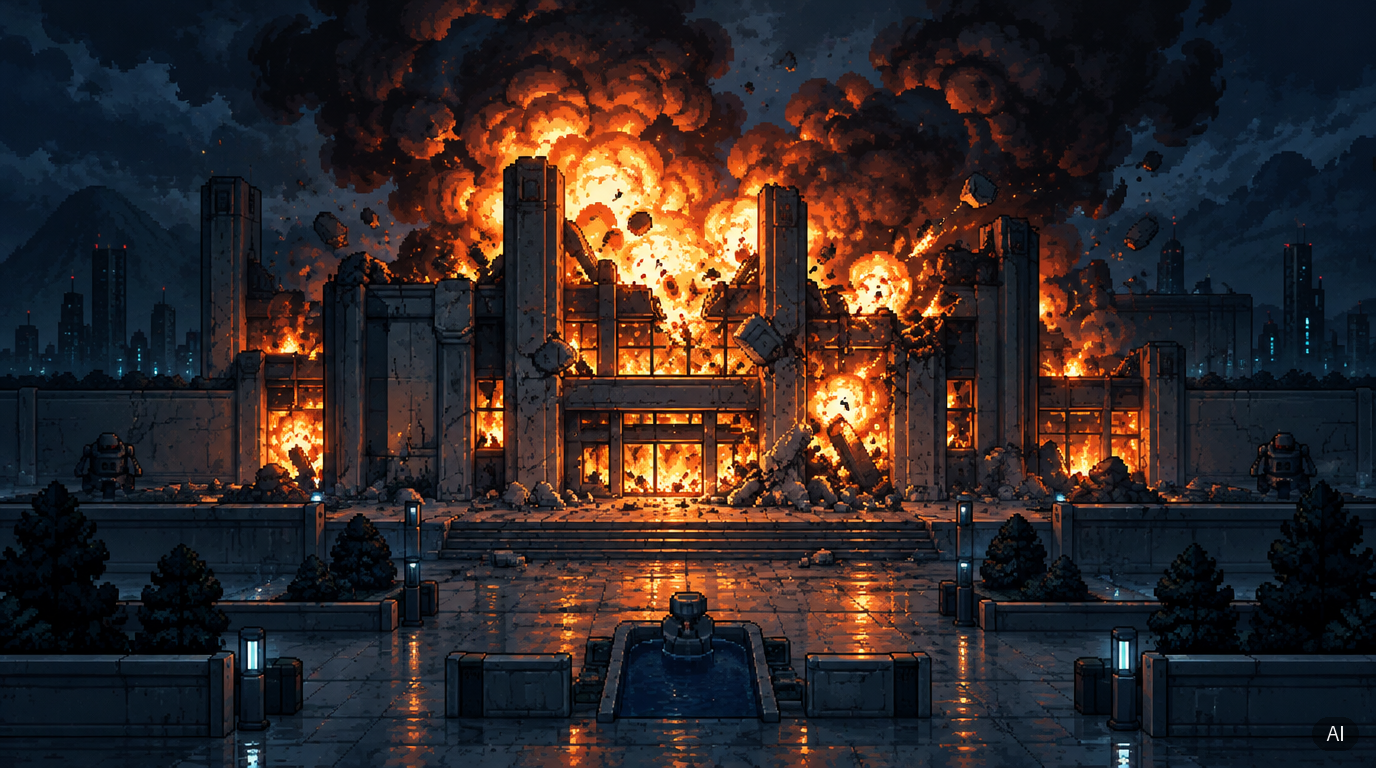
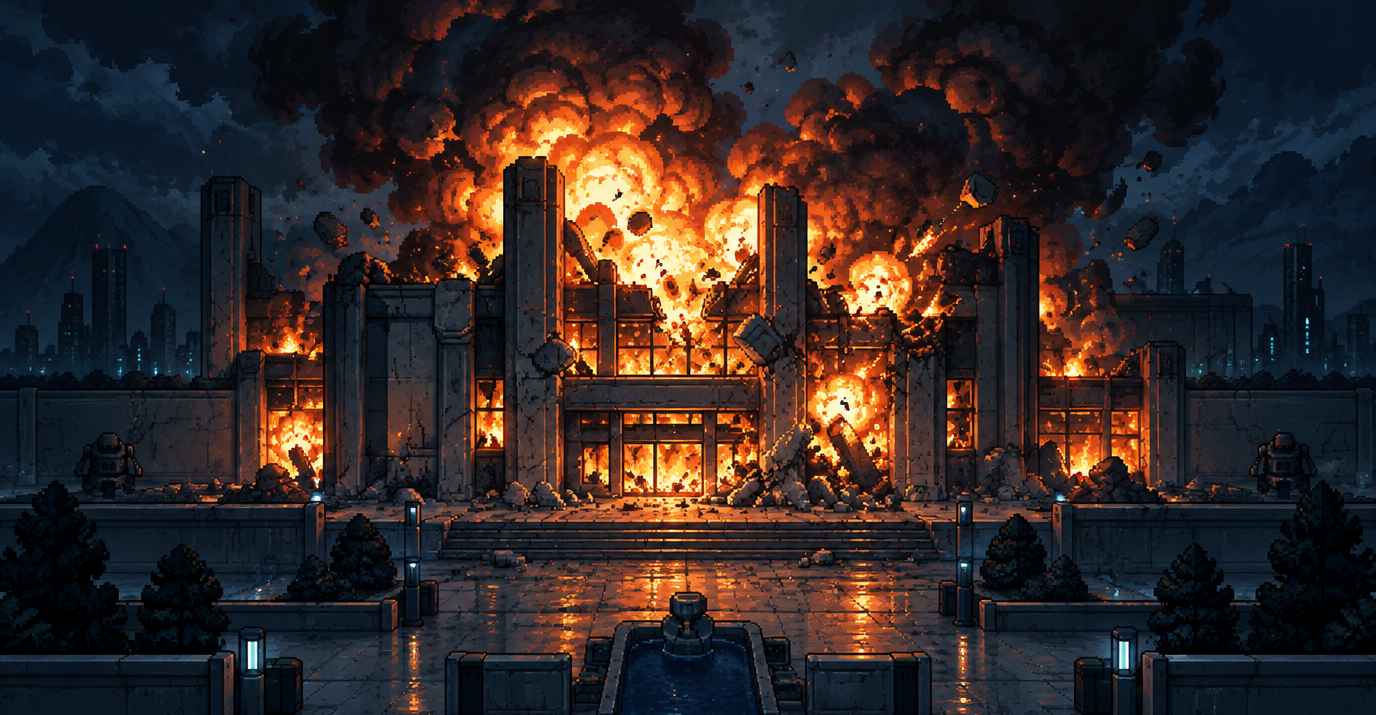
오프닝&엔딩 스킵버튼 수정

diff --git a/Assets/GameStart_all/OpeningManager.cs b/Assets/GameStart_all/OpeningManager.cs
@@ -128,9 +128,9 @@ public class OpeningManager : MonoBehaviour
 
             if (c > 0) yield return Fade(0f, 1f);
             dialoguePanel.SetActive(false);
+            if (skipButtonObj != null) skipButtonObj.SetActive(false);   // ← 추가
             if (cutImage != null) cutImage.sprite = cut.image;
             yield return Fade(1f, 0f);
-            if (skipButtonObj != null) skipButtonObj.SetActive(true);   // ← 추가
 
             if (cut.lines == null || cut.lines.Length == 0)
             {
@@ -145,6 +145,7 @@ public class OpeningManager : MonoBehaviour
             }
 
             dialoguePanel.SetActive(true);
+            if (skipButtonObj != null) skipButtonObj.SetActive(true);   // ← 추가
             SetSpeaker(null);
             skipCut = false;
 
